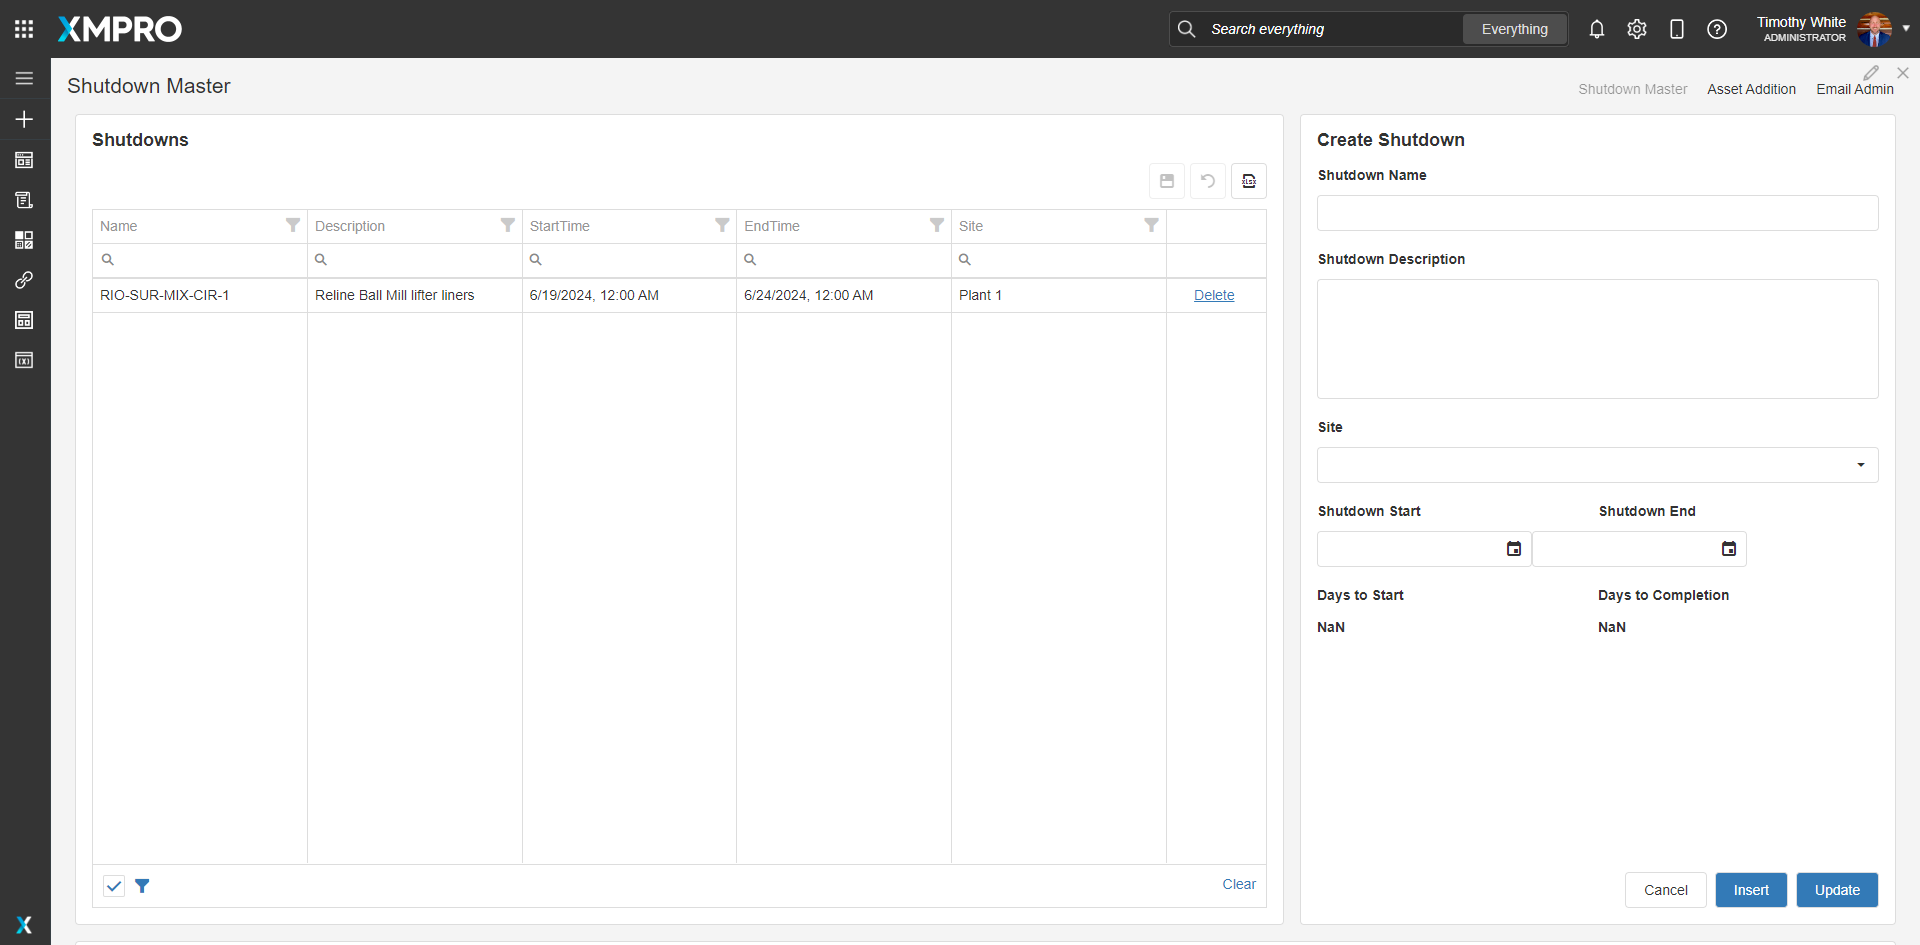
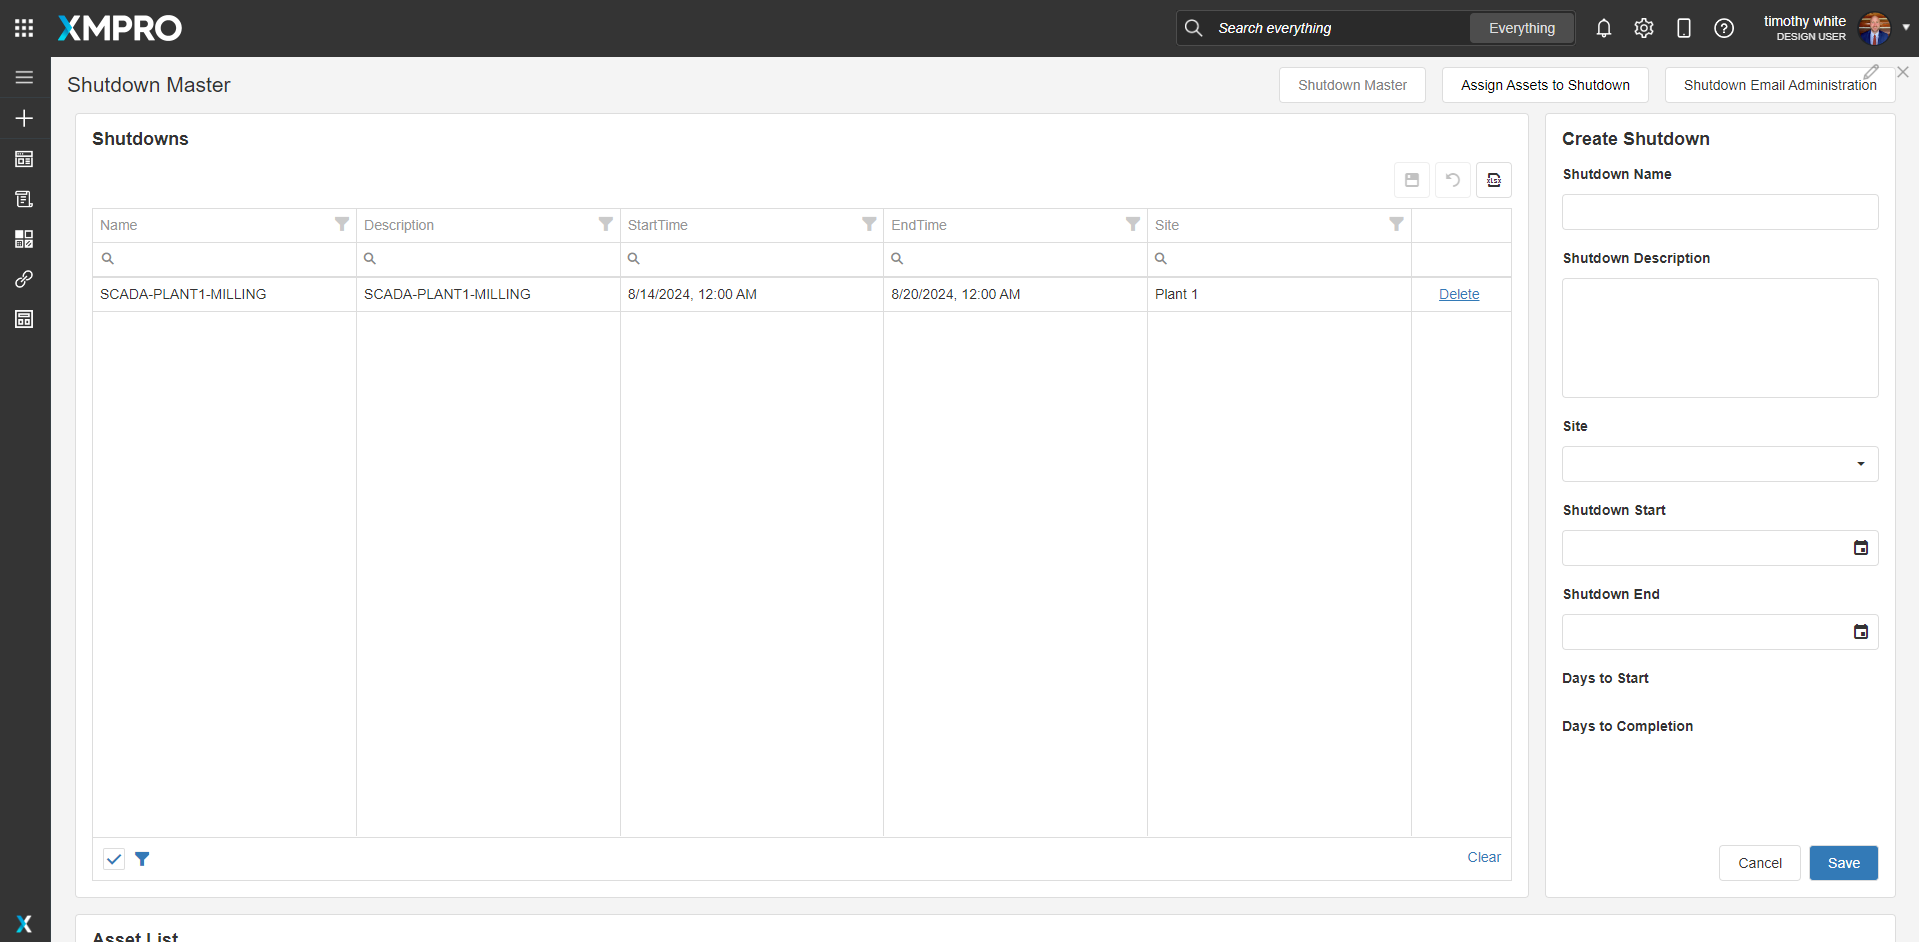
modified:   docs/assets/images/blueprints/general-shutdown-stoppage/ad01.png 	modified:   docs/assets/images/blueprints/general-shutdown-stoppage/ad02.png 	modified:   docs/assets/images/blueprints/general-shutdown-stoppage/ad03.png 	modified:   docs/assets/images/blueprints/general-shutdown-stoppag

diff --git a/docs/collections/_blueprints/general-shutdown-stoppage.md b/docs/collections/_blueprints/general-shutdown-stoppage.md
@@ -43,12 +43,12 @@ This blueprint enables users to create a Shutdown Master and assign assets to sp
 
 <div class="inline_image">{% include framework/shortcodes/image.html src="/assets/images/blueprints/general-shutdown-stoppage/ad04.png" %}</div>
 
-This page allows the user to create/eidt shutdowns and add details such as Start/End Date. It contains a grid that displays all the assets associated with an individual shutdown.
+This page allows the user to create/edit shutdowns and add details such as Start/End Date. It also contains a grid at the bottom of the page that displays all the assets associated with an individual shutdown.
 
 ### Assign Assets to Shutdown
 <div class="inline_image"  >{% include framework/shortcodes/image.html src="/assets/images/blueprints/general-shutdown-stoppage/ad02.png" %}</div>
 
-This page assigns assets to shutdowns by selecting a shutdown from a dropdown menu the assign assets to the shutdown and save. The "Previously Selected" column shows the assets that are already assigned to a shutdown if any exist.
+This page assigns assets to shutdowns by selecting a shutdown from a dropdown menu the assign assets to the shutdown and save. The "Asigned to Shutdown?" column shows the assets that are already assigned to the selected shutdown if any exist.
 
 ### Subcribe to Email Alerts
 <div class="inline_image">{% include framework/shortcodes/image.html src="/assets/images/blueprints/general-shutdown-stoppage/ad03.png" %}</div>
@@ -72,7 +72,8 @@ Ensure the following variables are available to be used:
 
 ### 3. Import the Data Stream
 - This Data Stream performs two functions: activating and deactivating Assets in the Asset Master and generating email alerts for start/stop based on the Email Administration Page
-- As the solution stands, the Data Stream will notify users subscribed to a site of any shutdown in that Site Hierarchy 2 days prior two start and 2 days prior to end 
+- As the solution stands, the Data Stream will notify users subscribed to a site of any shutdown in that Site Hierarchy 2 days prior two start and 2 days prior to end
+- The site administrator will need to have an available SMTP server set up, to take advantge of automatic email capabilities within the Data Stream 
 
 ### 4. Import the Applications
 
@@ -81,4 +82,3 @@ Ensure the following variables are available to be used:
 - Ensure the App Data connection properties are configured and valid
 - Save the application
 - Publish the application
-- Ensure there is data in the application

diff --git a/docs/collections/_posts/2024-08-19-blueprint-general-shutdown-stoppage.md b/docs/collections/_posts/2024-08-19-blueprint-general-shutdown-stoppage.md
@@ -1,0 +1,22 @@
+---
+layout: post
+title: "Shutdown Master"
+date: 2024-08-19
+categories: ["Data Capture", "Light Theme"]
+description: "A Shutdown Asset Assignment and Notification Application that allows the user to pause alert generation for specific assets during shutdown and subscribe to alerts for shutdown start and end."
+contributor: "XMPro"
+role: "Blueprint"
+thumbnail: "/assets/images/blueprints/general-shutdown-stoppage/ad01.png"
+image: "/assets/images/blueprints/general-shutdown-stoppage/ad01.png"
+gallery:
+  - image: "/assets/images/blueprints/general-shutdown-stoppage/ad01.png"
+    caption: "<strong>Above:</strong> Application View 01"
+  - image: "/assets/images/blueprints/general-shutdown-stoppage/ad02.png"
+    caption: "<strong>Above:</strong> Application View 02"
+  - image: "/assets/images/blueprints/general-shutdown-stoppage/ad03.png"
+    caption: "<strong>Above:</strong> Application View 03"
+
+
+---
+
+View more information and how to import by <strong>[Clicking Here]({{ site.url }}/blueprints/general-shutdown-stoppage/)</strong>
